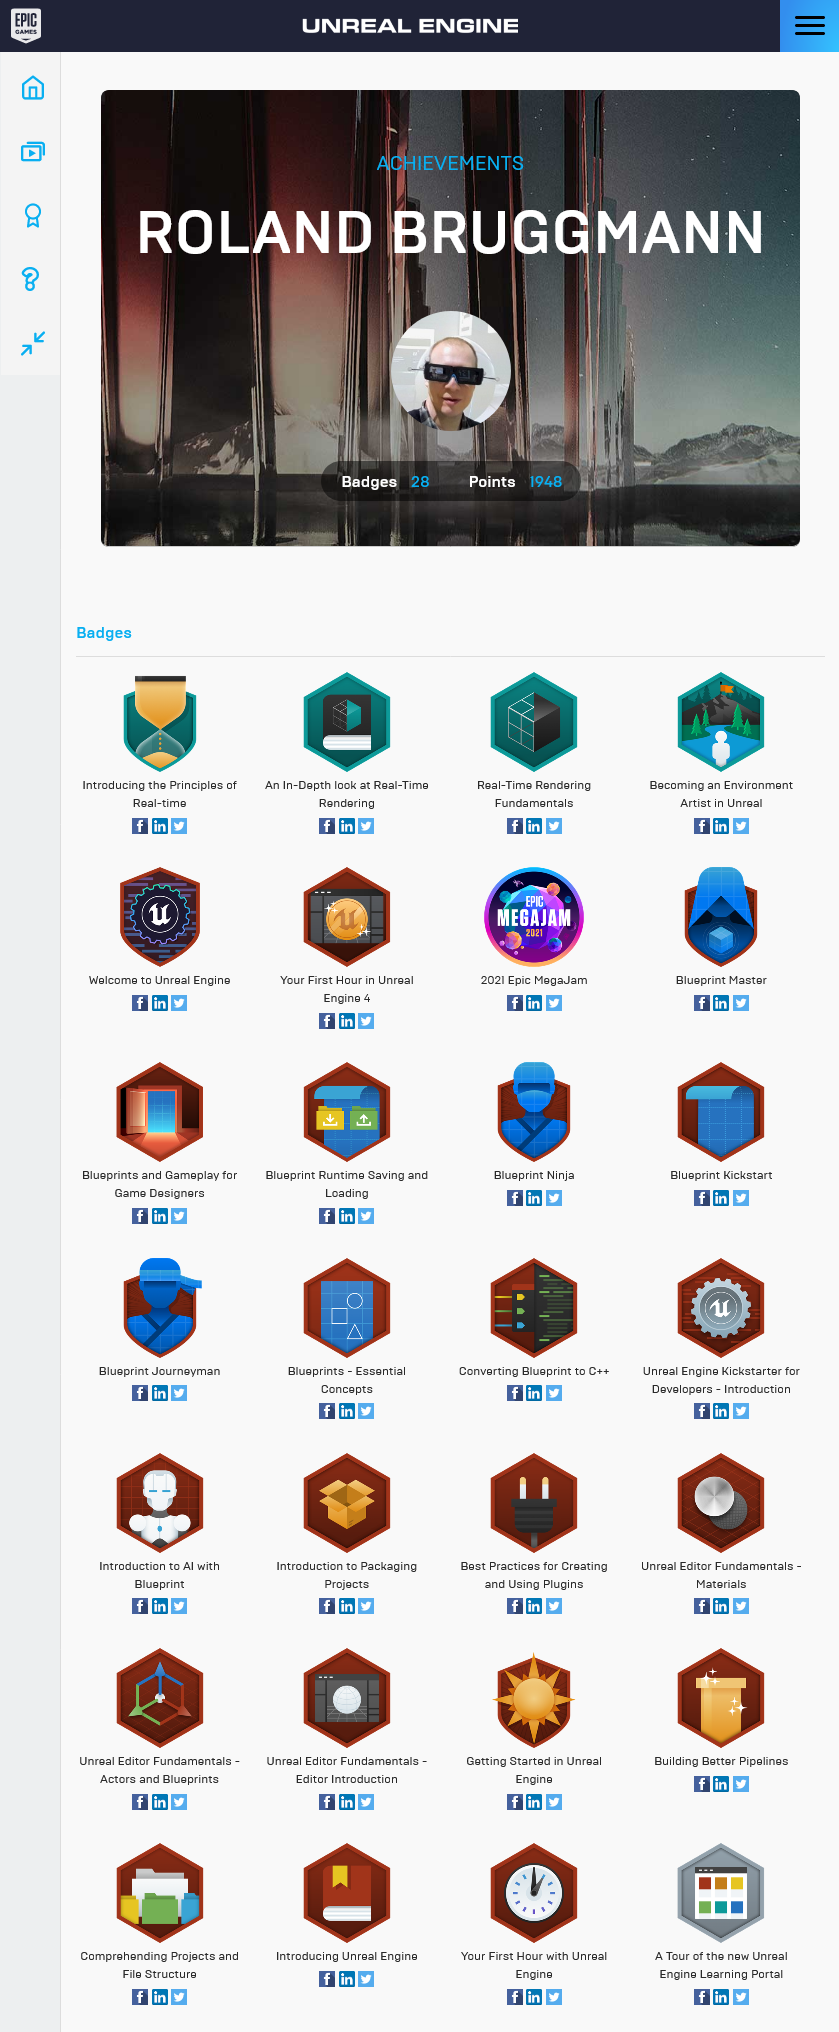
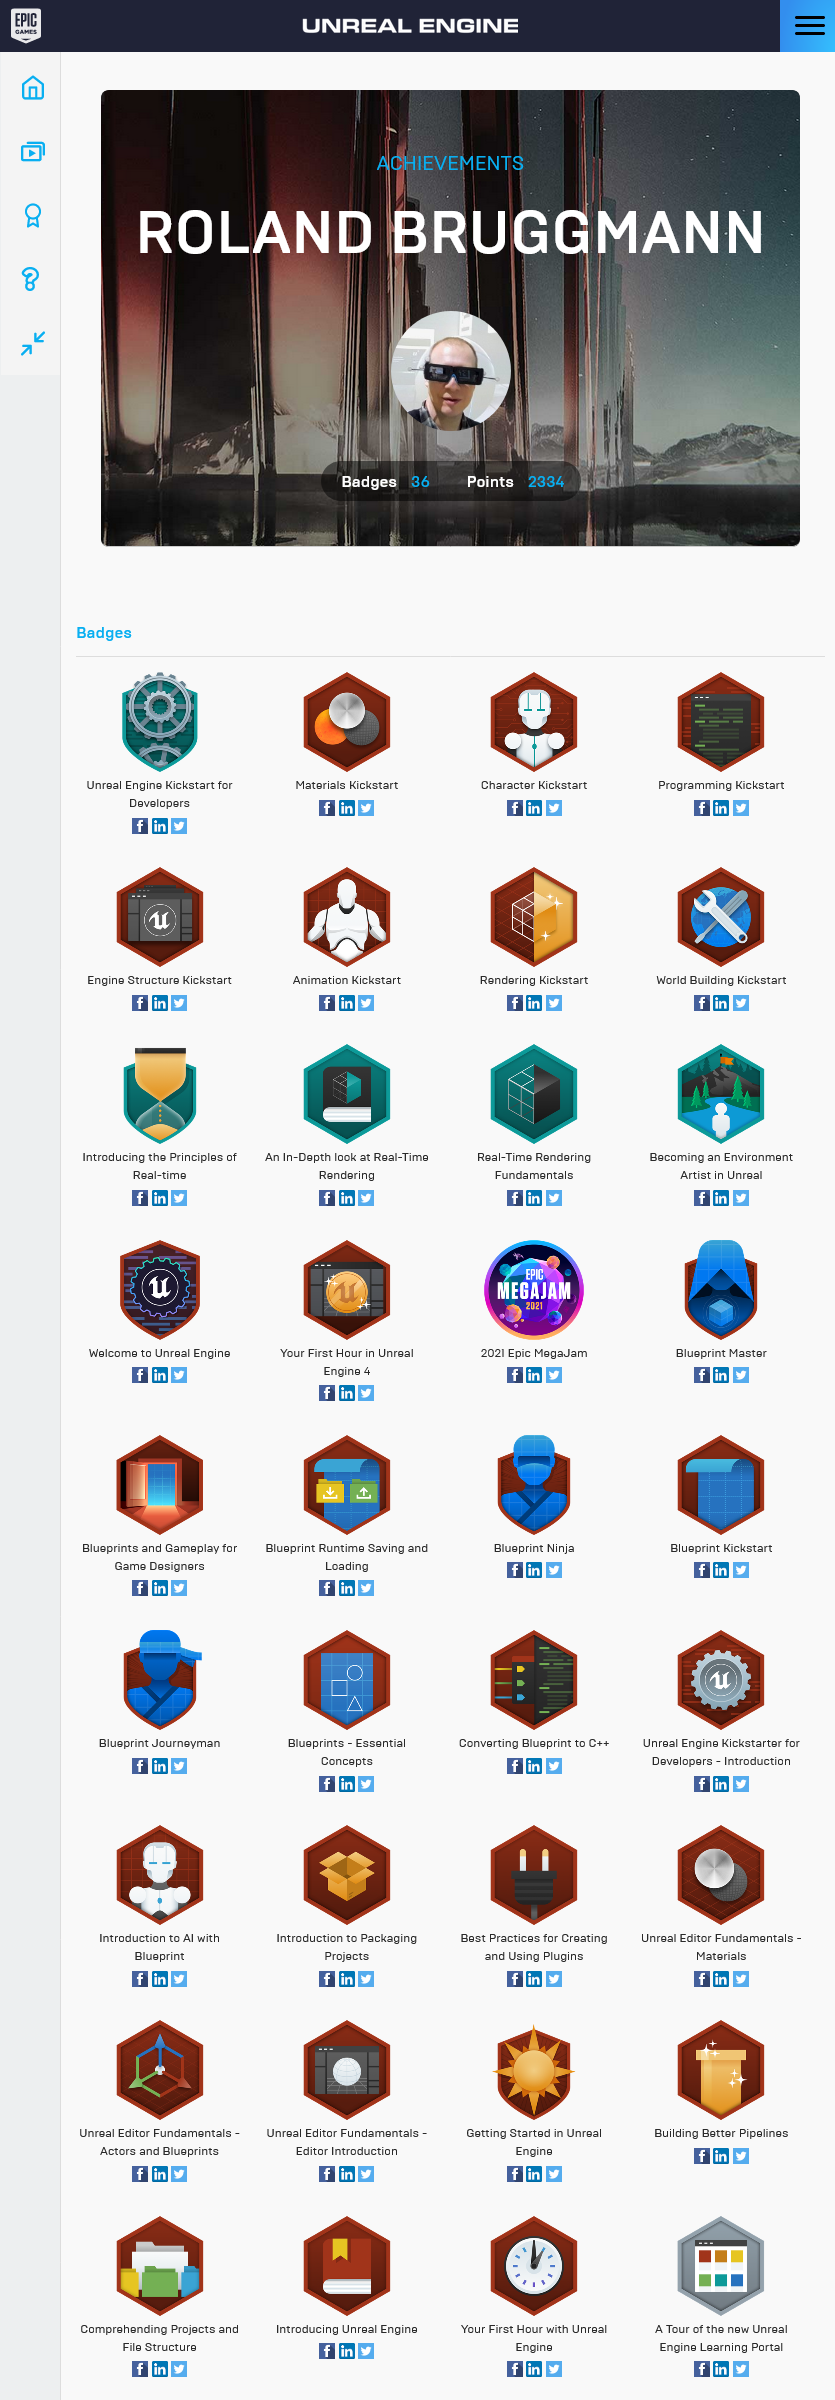
ue4 achievements, zeroqm readme

diff --git a/ZeroMQ/README.md b/ZeroMQ/README.md
@@ -15,11 +15,15 @@ A game plugin providing with ZeroMQ (aka zmq) assets using C++-bindings from Cpp
 
 ### Features
 
-* ZmqContextActor
-* PUB/SUB Actors and ActorComponents:
-  * ZmqPubSocketActor, ZmqPublishComponent
-  * ZmqSubSocketActor, ZmqSubscribeComponent
-* Demo Actors and Demo Map
+* ZeroMQ PUB/SUB pattern support
+* Context Actor:
+  * Event Dispatchers: OnZmqContextAndSocketsInitialised, OnZmqContextAndSocketsClosed
+* Socket Actor:
+  * Transport Type: tcp, ipc, inproc, pgm, vmci
+  * Event Dispatchers: OnZmqSocketBound, OnZmqSocketUnbound, OnZmqSocketConnected, OnZmqSocketDisconnected
+* PUB/SUB Actor Components:
+  * ZmqPublishComponent, Event Dispatchers: OnZmqPublished
+  * ZmqSubscribeComponent, Event Dispatchers: OnZmqSubscribed, OnZmqUnsubscribed, OnZmqMessageReceived
 
 ### Contents
 
@@ -29,7 +33,7 @@ A game plugin providing with ZeroMQ (aka zmq) assets using C++-bindings from Cpp
 ### C++ Classes
 
 * Interfaces: 1
-* ActorComponents: 2
+* Actor Components: 2
 * Actors: 4
 * Objects: 1
 
@@ -112,11 +116,9 @@ ZmqPubSocketActor has:
 
 * Variables, Link Info:
   * Transport Type (tcp, ipc, inproc, pgm, vmci), Host, Port
-
 * Functions:
   * Bind, IsBound (IsBound Boolean), Unbind
   * Connect, IsConnected (IsConnected Boolean), Disconnect
-
 * Event Dispatchers (Delegates):
   * OnZmqSocketBound, OnZmqSocketUnbound
   * OnZmqSocketConnected, OnZmqSocketDisconnected
@@ -137,13 +139,11 @@ ZmqSubSocketActor has:
 
 * Variables, Link Info:
   * Transport Type (tcp, ipc, inproc, pgm, vmci), Host, Port
-
 * Functions:
   * Bind, IsBound (IsBound Boolean), Unbind
   * Connect, IsConnected (IsConnected Boolean), Disconnect
   * Receive
   * StartBlockingReceive, StopBlockingReceive
-
 * Event Dispatchers (Delegates):
   * OnZmqSocketBound, OnZmqSocketUnbound
   * OnZmqSocketConnected, OnZmqSocketDisconnected
@@ -166,7 +166,6 @@ ZmqPublishComponent has:
 
 * Functions:
   * Publish
-
 * Event Dispatchers (Delegates):
   * OnZmqMessagePublished
 
@@ -183,7 +182,6 @@ ZmqSubscribeComponent has:
 * Functions:
   * Subscribe
   * Unsubscribe
-
 * Event Dispatchers (Delegates):
   * OnZmqSubscribed
   * OnZmqUnsubscribed

diff --git a/UE-Achievements/index.md b/UE-Achievements/index.md
@@ -31,6 +31,15 @@ List of completed on-line learning courses (links go to Epic Games):
 * ***<a href="https://www.unrealengine.com/en-US/onlinelearning-courses/introducing-the-principles-of-real-time" target="_blank">Introducing the Principles of Real-time</a>***
   * *<a href="https://www.unrealengine.com/en-US/onlinelearning-courses/real-time-rendering-fundamentals" target="_blank">Real-Time Rendering Fundamentals</a>*
   * *<a href="https://www.unrealengine.com/en-US/onlinelearning-courses/an-in-depth-look-at-real-time-rendering" target="_blank">An In-Depth Look at Real-Time Rendering</a>*
+* ***<a href="https://www.unrealengine.com/en-US/onlinelearning-courses/unreal-engine-kickstart-for-developers" target="_blank">Unreal Engine Kickstart for Developers</a>***
+  * *<a href="https://www.unrealengine.com/en-US/onlinelearning-courses/world-building-kickstart" target="_blank">World Building Kickstart</a>*
+  * *<a href="https://www.unrealengine.com/en-US/onlinelearning-courses/rendering-kickstart" target="_blank">Rendering Kickstart</a>*
+  * *<a href="https://www.unrealengine.com/en-US/onlinelearning-courses/animation-kickstart" target="_blank">Animation Kickstart</a>*
+  * *<a href="https://www.unrealengine.com/en-US/onlinelearning-courses/engine-structure-kickstart" target="_blank">Engine Structure Kickstart</a>*
+  * *<a href="https://www.unrealengine.com/en-US/onlinelearning-courses/programming-kickstart" target="_blank">Programming Kickstart</a>*
+  * *<a href="https://www.unrealengine.com/en-US/onlinelearning-courses/blueprint-kickstart" target="_blank">Blueprint Kickstart</a>*
+  * *<a href="https://www.unrealengine.com/en-US/onlinelearning-courses/character-kickstart" target="_blank">Character Kickstart</a>*
+  * *<a href="https://www.unrealengine.com/en-US/onlinelearning-courses/materials-kickstart" target="_blank">Materials Kickstart</a>*
 
 ## Advanced Courses
 

diff --git a/index.md b/index.md
@@ -1,4 +1,4 @@
-*Unity® and Unreal Game Engine Projects and Plugins*
+*Unity and Unreal Game Engine Projects and Plugins*
 
 # Document Outline
 <!-- Start Document Outline -->
